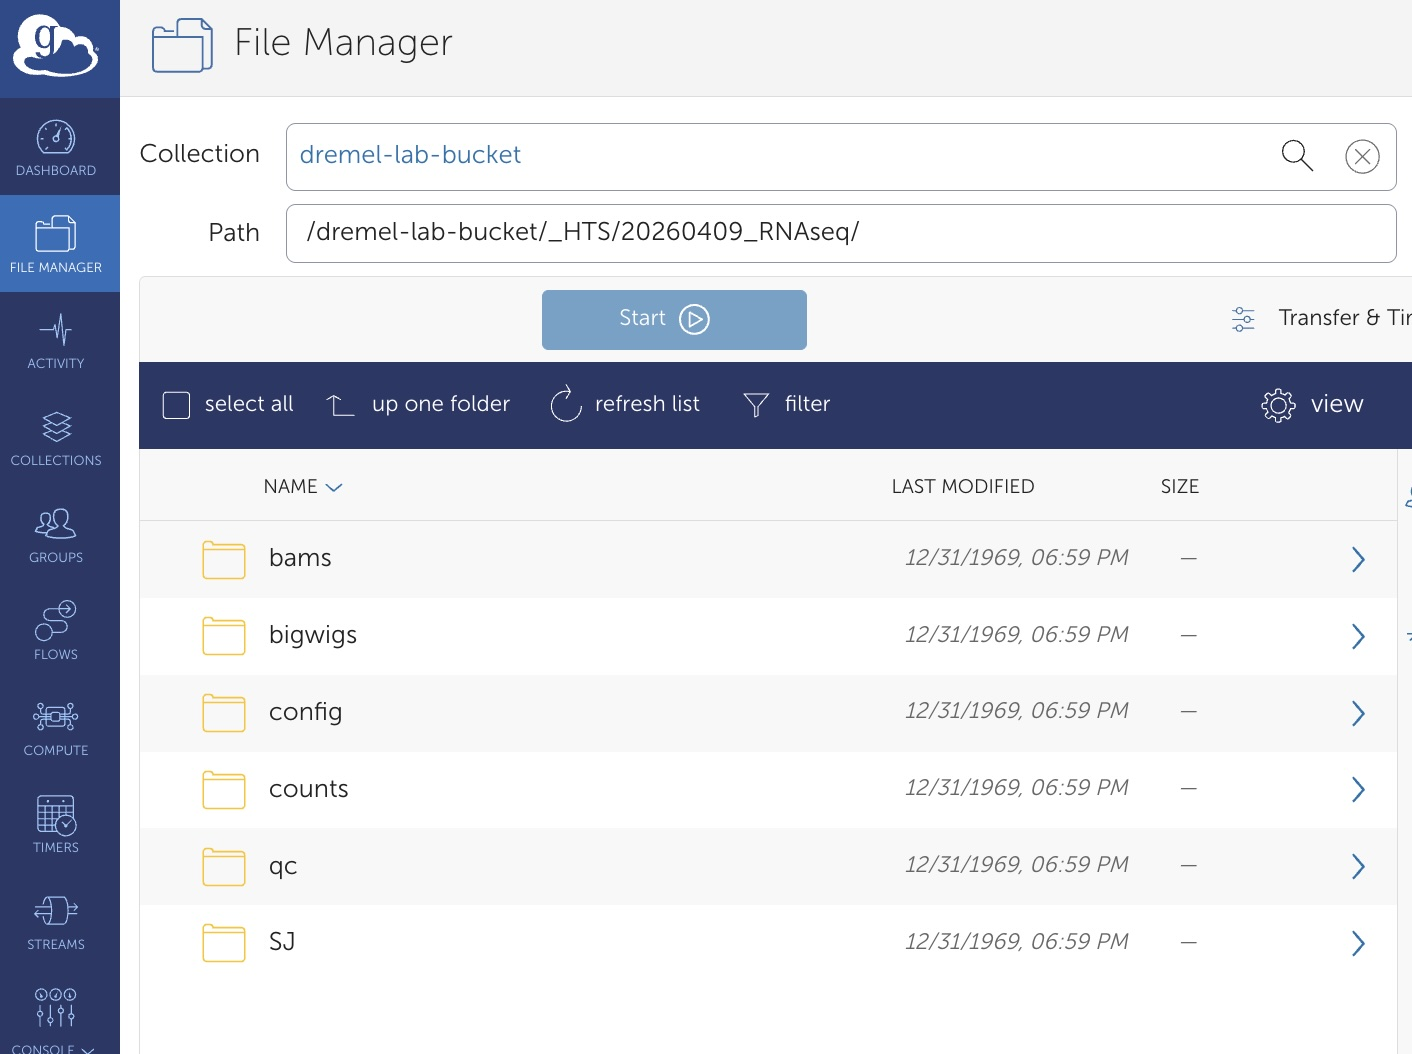
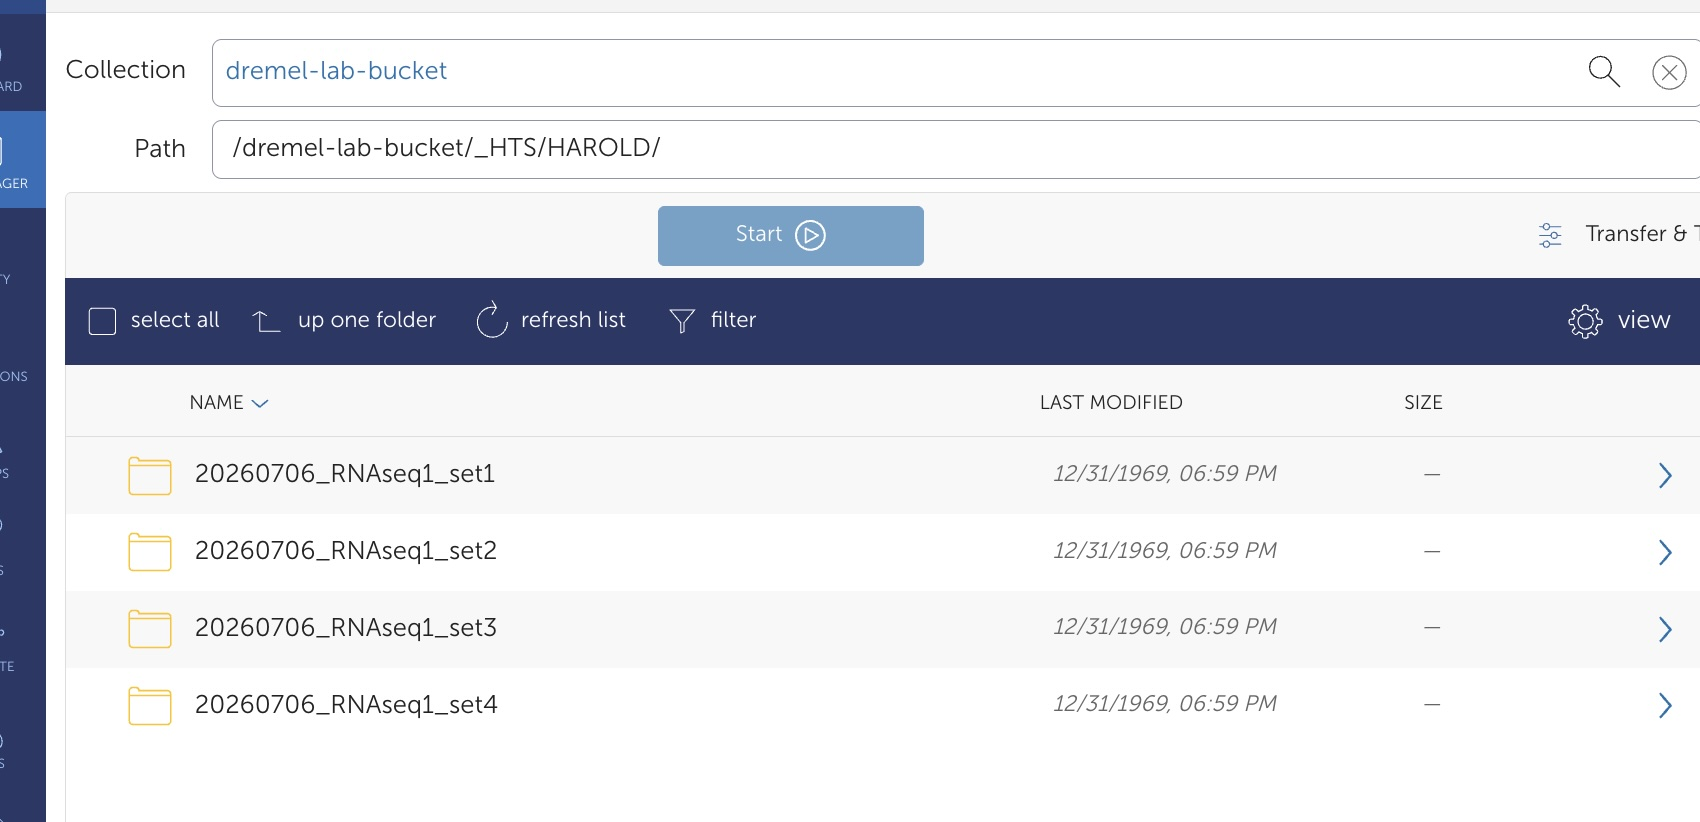
Update Globus access guide with improved folder structure and support links
- Clarify S3 hierarchy with explicit pipeline-level folder (`_HTS/<PIPELINE>/`)
- Update RC support request URL and add HPC support email option
- Improve navigation instructions for pipeline outputs
- Fix formatting inconsistencies in folder structure section

diff --git a/globus-access-guide.md b/globus-access-guide.md
@@ -64,7 +64,7 @@ You should now see the Globus web interface. If you see "Search Collections" or 
 3. Click **Search**
 4. The collection should appear in the results
 
-> **If the collection doesn't appear:** You need to request collection access. Open a support ticket at [https://www.rc.virginia.edu/form/support-request/](https://www.rc.virginia.edu/form/support-request/) requesting access to the `dremel-lab-bucket` Globus collection. This request requires approval from Sarah Dremel (qdt2nz@virginia.edu) before access is granted. Allow 1-2 business days for processing.
+> **If the collection doesn't appear:** You need to request collection access. Open a support ticket at [https://forms.rc.virginia.edu/form/support-request/](https://forms.rc.virginia.edu/form/support-request/) or email [HPC Support](mailto:hpc-support@virginia.edu) requesting access to the `dremel-lab-bucket` Globus collection. This request requires approval from Sarah Dremel (qdt2nz@virginia.edu) before access is granted. Allow 1-2 business days for processing.
 
 ---
 
@@ -110,13 +110,14 @@ The Dremel Lab S3 bucket is organized by project. Pipeline outputs are stored in
 **Key folders structure:**
 
 - **`_HTS/`** — Contains all high-throughput sequencing (HTS) pipeline outputs
-  - **`{sample_set_name}/`** — Project-specific folders
-    - Subfolders depend on **which pipeline was run** to generate the outputs. Common subfolders include:
-      - `raw_data/` — Raw sequencing reads
-      - `qc/` — Quality control results
-      - `alignment/` — Aligned BAM files and indices
-      - `counts/` — Gene/transcript count matrices
-      - `logs/` — Pipeline execution logs
+  - ** `{pipeline}` ** - Name of pipeline that generated this output eg. HAROLD
+   - **`{sample_set_name}/`** — Project-specific folders
+      - Subfolders depend on **which pipeline was run** to generate the outputs. Common subfolders include:
+         - `raw_data/` — Raw sequencing reads
+         - `qc/` — Quality control results
+         - `alignment/` — Aligned BAM files and indices
+         - `counts/` — Gene/transcript count matrices
+         - `logs/` — Pipeline execution logs
 
 > **Important:** The exact subfolders under each sample sheet or sample set will vary depending on the specific pipeline used (e.g., RNA-seq pipeline, ATAC-seq pipeline, etc.). 
 
@@ -129,13 +130,13 @@ The Dremel Lab S3 bucket is organized by project. Pipeline outputs are stored in
 **Test your access:**
 
 1. Browse to the `_HTS/` folder to see the project structure
-2. Navigate to an existing sample set folder to see the pipeline-generated outputs
+2. Navigate to an existing sample set folder inside the appropriate pipeline outputs to see the pipeline-generated outputs
 3. Select a file from an existing output folder (e.g., a QC report or log file)
 4. Try to **download** the file to your computer
 
 If you can browse folders and download files, you have the access you need.
 
-> **Note:** Do not create or modify files in the `_HTS/` folder—these are pipeline outputs and should remain unchanged. New data is added only through Rivanna pipeline runs.
+> **Note:** Do not create or modify files in the `_HTS/<PIPELINE>` folder—these are pipeline outputs and should remain unchanged. New data is added only through Rivanna pipeline runs.
 
 ---
 
@@ -143,18 +144,18 @@ If you can browse folders and download files, you have the access you need.
 
 With Globus access, you can:
 
-- **Download files** from pipeline outputs in the `_HTS/` folder (this is the primary use case)
+- **Download files** from pipeline outputs in the `_HTS/<PIPELINE>` folder (this is the primary use case)
 - **Browse the folder structure** to find your sample sets and results via the web GUI
 - **Share files** with lab members via Globus sharing links
 
-**Note:** Pipeline outputs are automatically uploaded from Rivanna to the `_HTS/` folder—manual uploads are handled by the pipeline infrastructure, not by individual users.
+**Note:** Pipeline outputs are automatically uploaded from Rivanna to the `_HTS/<PIPELINE>` folder—manual uploads are handled by the pipeline infrastructure, not by individual users.
 
 
 ---
 
 ## Understanding S3 Storage Classes & File Restoration
 
-Pipeline outputs in the `_HTS/` folder are stored in two different S3 storage classes depending on file size:
+Pipeline outputs in the `_HTS/<PIPELINE>` folder are stored in two different S3 storage classes depending on file size:
 
 ### Storage Classes Explained
 
@@ -296,7 +297,7 @@ Email the lab PI (qdt2nz@virginia.edu (Sarah Dremel)) for help getting UVA accou
 > ✓ **Permissions take time:** If you're newly added to a collection, it may take 5-10 minutes for access to activate. 
 
 > ✓ **AWS SA credentials available:** Rivanna users can find credentials at `/project/dremel_lab/scripts/aws_globus_sa_credentials.txt`. Non-Rivanna users can email the lab PI. 
- 
+
 > ✓ **Ask in Slack if stuck:** The `#dremellab` channel is your fastest way to get help from the team.
 
 ---
